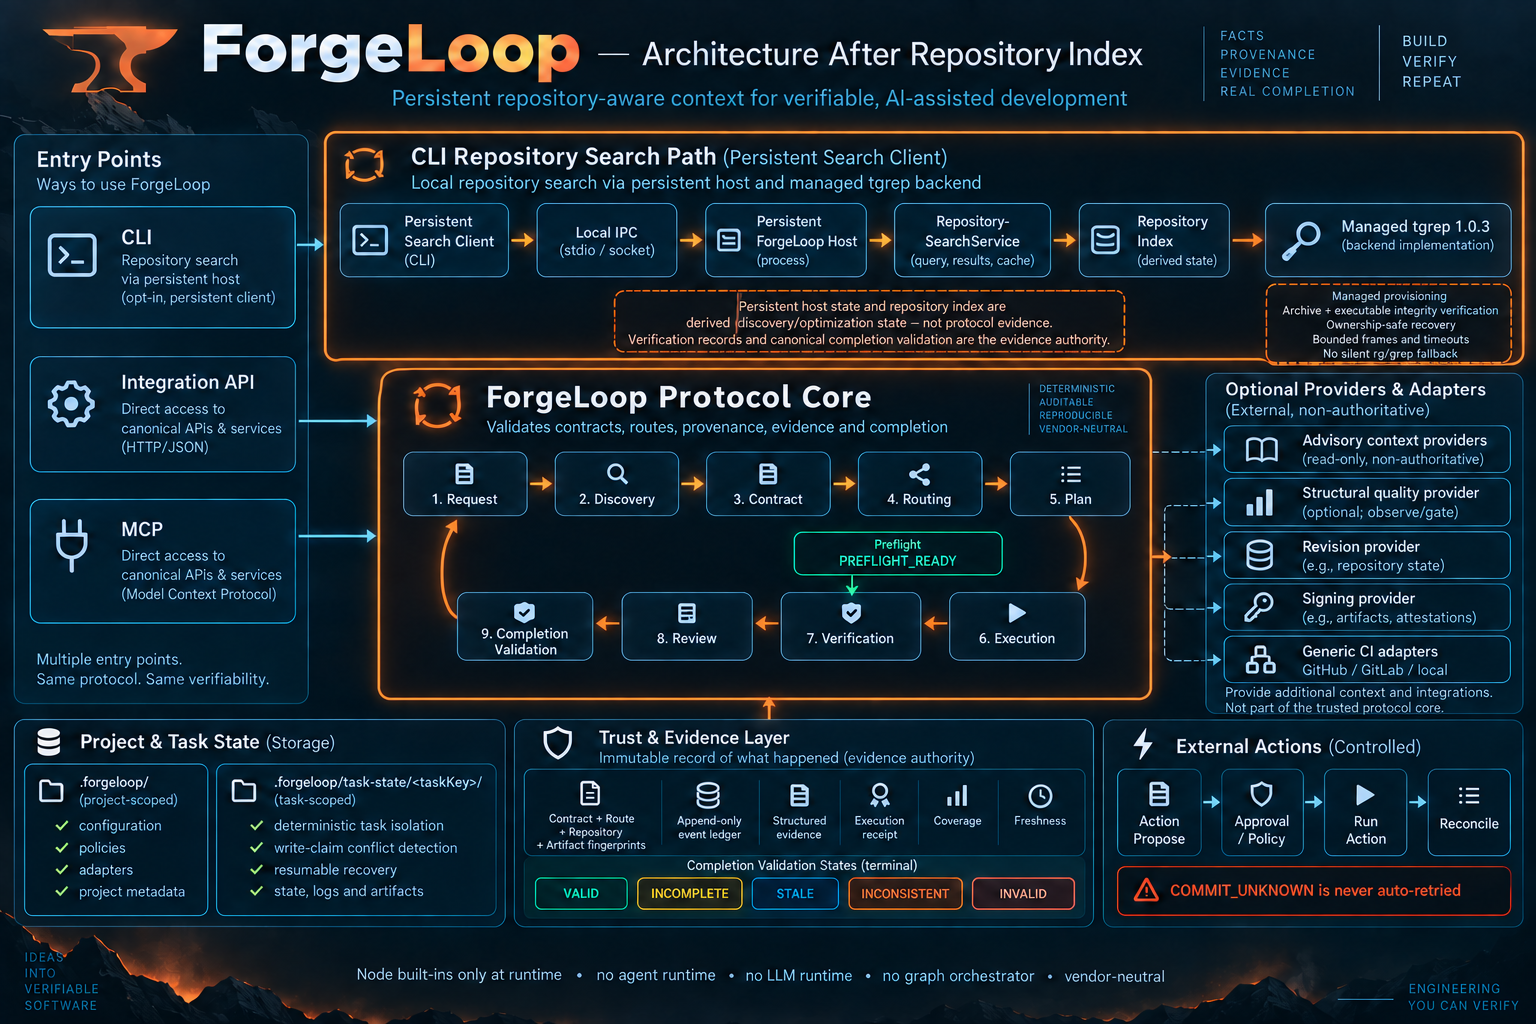
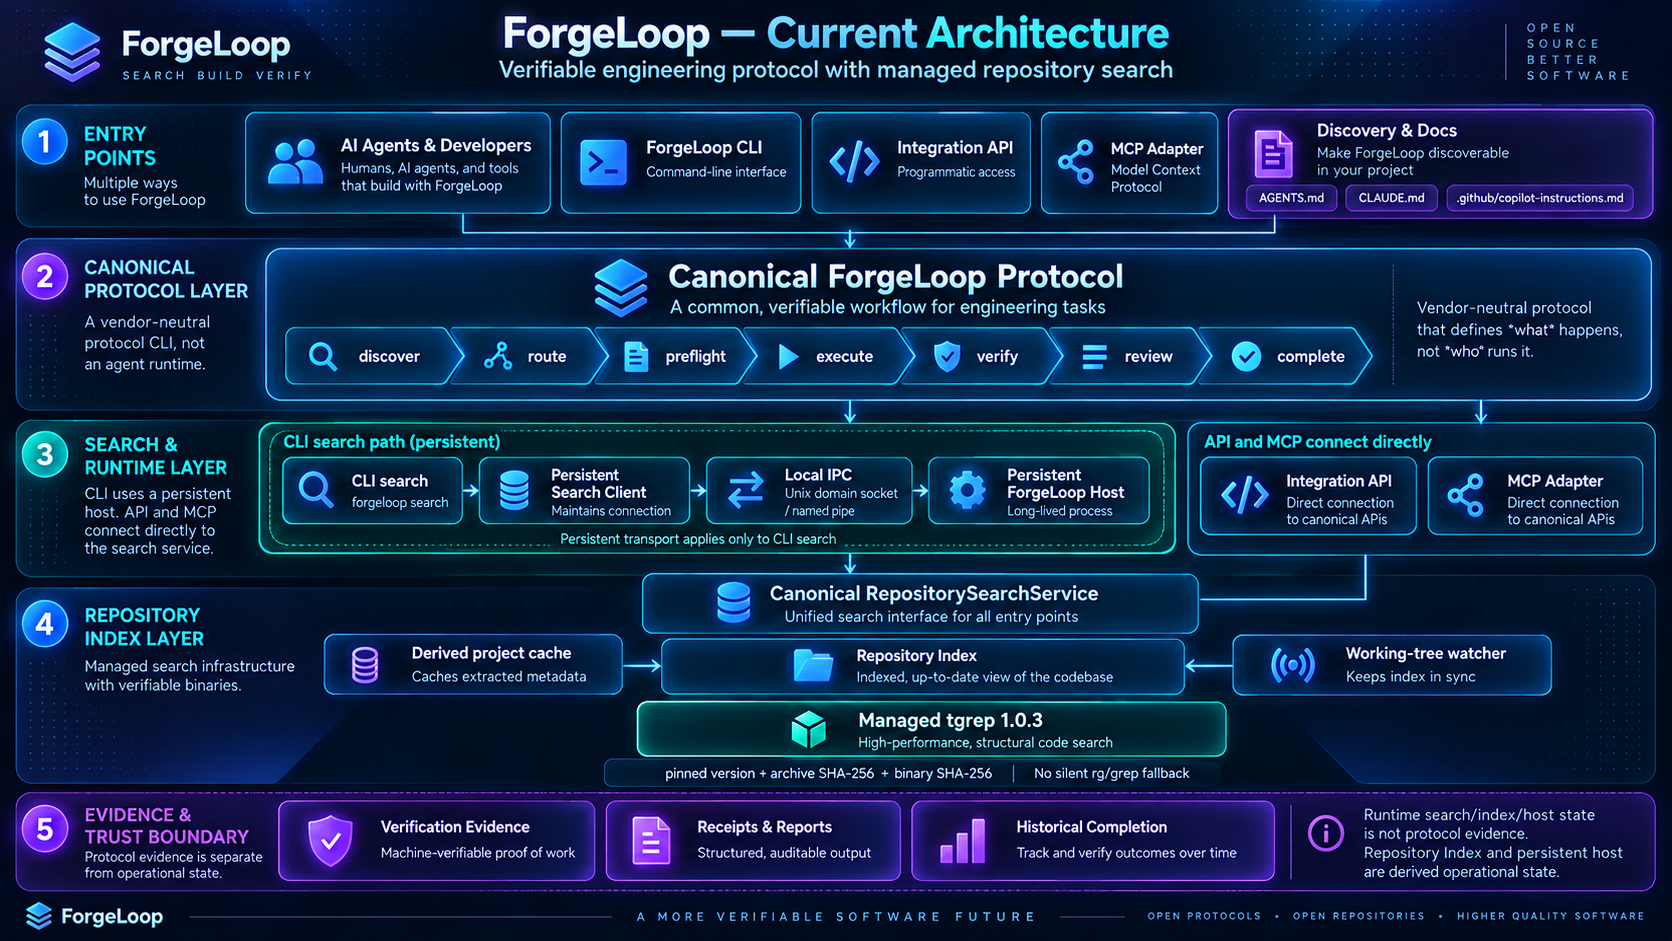
docs: refresh README architecture image for 1.11.1
Merged after exact-head validation: 20 applicable GitHub checks successful, including cross-platform portability, Repository Index, package smoke, docs/diagram validation, CodeQL, dependency review, and ForgeLoop audit.

diff --git a/docs/MCP.md b/docs/MCP.md
@@ -150,7 +150,7 @@ forgeloop-mcp-http --project /repo --mode safe          # 127.0.0.1:3333
 
 | Component | Current contract |
 | --- | --- |
-| ForgeLoop core package | `>=1.5.0 <2` dependency range; current release candidate `1.11.0` |
+| ForgeLoop core package | `>=1.5.0 <2` dependency range; current release `1.11.1` |
 | ForgeLoop protocol | `1` |
 | Integration API | `1` |
 | MCP package | `0.1.x` initial package |

diff --git a/docs/AGENT_PROTOCOL_SUMMARY.md b/docs/AGENT_PROTOCOL_SUMMARY.md
@@ -7,7 +7,7 @@
 ForgeLoop is a portable protocol and support CLI for verifiable engineering workflows. It records and validates task state, contracts, routing, checks, evidence, continuity, and optional code attestations. It does not become an agent scheduler, delegation service, source-control authority, or secret manager.
 
 Protocol version: 1
-Package version: 1.11.0
+Package version: 1.11.1
 
 ## Canonical loop
 

diff --git a/CHANGELOG.md b/CHANGELOG.md
@@ -4,6 +4,14 @@
 
 No changes yet.
 
+## 1.11.1 - 2026-09-09
+
+### Changed
+
+- Refreshed the README architecture image to reflect the current ForgeLoop
+  entry points, canonical protocol, managed Repository Index, persistent CLI
+  transport, and evidence boundary.
+
 ## 1.11.0 - 2026-09-08
 
 ### Added
